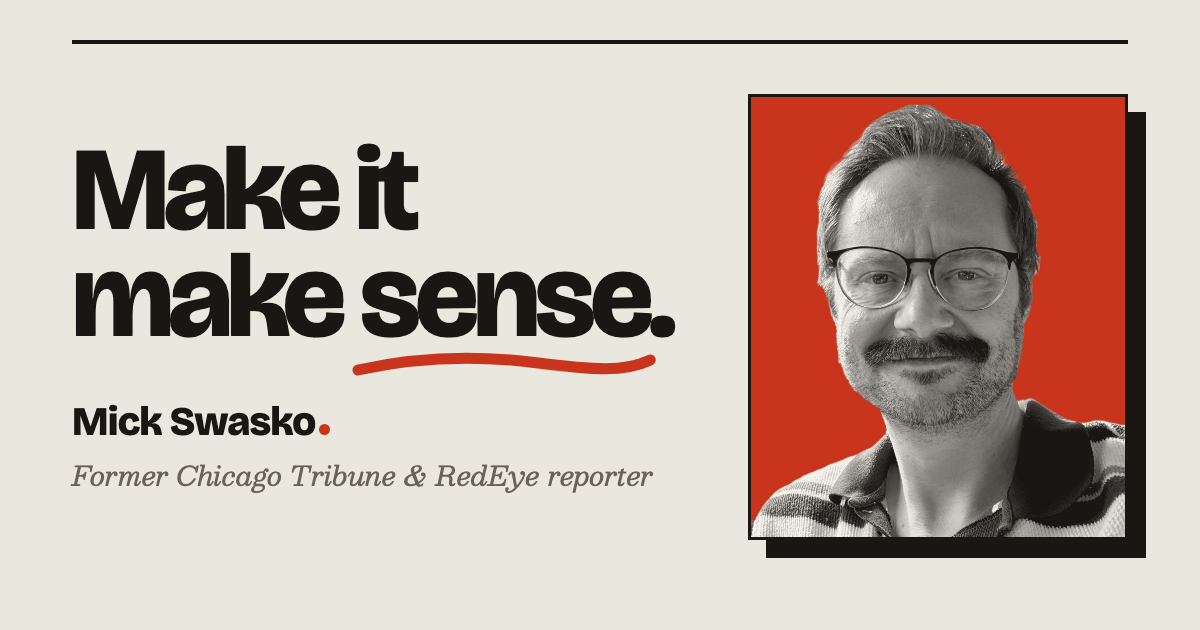
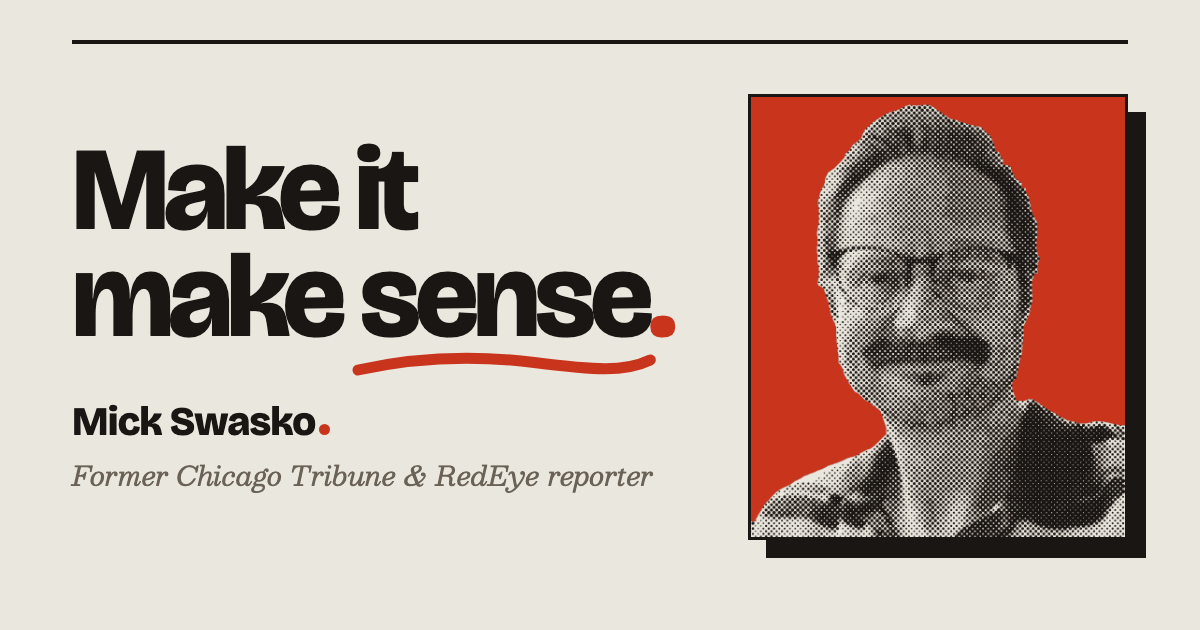
Halftone "file photo" headshot; new video subhead
- About photo is now a newsprint halftone on the red block that develops
  from a coarse to a fine screen on scroll-in, captioned "File photo."
  (static under reduced motion)
- Share card uses the halftone and the red hero period
- Mick in a Minute subhead: "I'll keep adding commas."

Changed region(s): [[0.6167, 0.1508, 0.9558, 0.8746], [0.5242, 0.4825, 0.5858, 0.5429]]

diff --git a/scripts/og/og.html b/scripts/og/og.html
@@ -21,12 +21,12 @@
   .mark { position: relative; white-space: nowrap; }
   .mark svg { position: absolute; left: -2%; width: 104%; bottom: -12px; height: 30px; overflow: visible; }
   .mark path { fill: none; stroke: #C8341C; stroke-width: 11px; stroke-linecap: round; vector-effect: non-scaling-stroke; }
-  .stop { color: #1A1613; }
+  .stop { color: #C8341C; }
   .name { font-weight: 800; font-size: 40px; letter-spacing: -.02em; }
   .name .dot { display: inline-block; width: 11px; height: 11px; border-radius: 50%; background: #C8341C; margin-left: 4px; }
   .role { font-family: 'Besley', serif; font-style: italic; font-size: 27px; color: #6A6256; margin-top: 6px; }
   .portrait { align-self: center; border: 3px solid #1A1613; box-shadow: 18px 18px 0 #1A1613; background: #C8341C; }
-  .portrait img { display: block; width: 100%; height: 440px; object-fit: cover; object-position: 50% 12%; }
+  .portrait img { display: block; width: 100%; height: 440px; object-fit: cover; object-position: 50% 10%; }
 </style>
 </head>
 <body>
@@ -35,6 +35,6 @@
     <div class="name">Mick Swasko<span class="dot"></span></div>
     <div class="role">Former Chicago Tribune &amp; RedEye reporter</div>
   </div>
-  <div class="portrait"><img src="headshot.jpg" alt="" /></div>
+  <div class="portrait"><img src="headshot.png" alt="" /></div>
 </body>
 </html>
